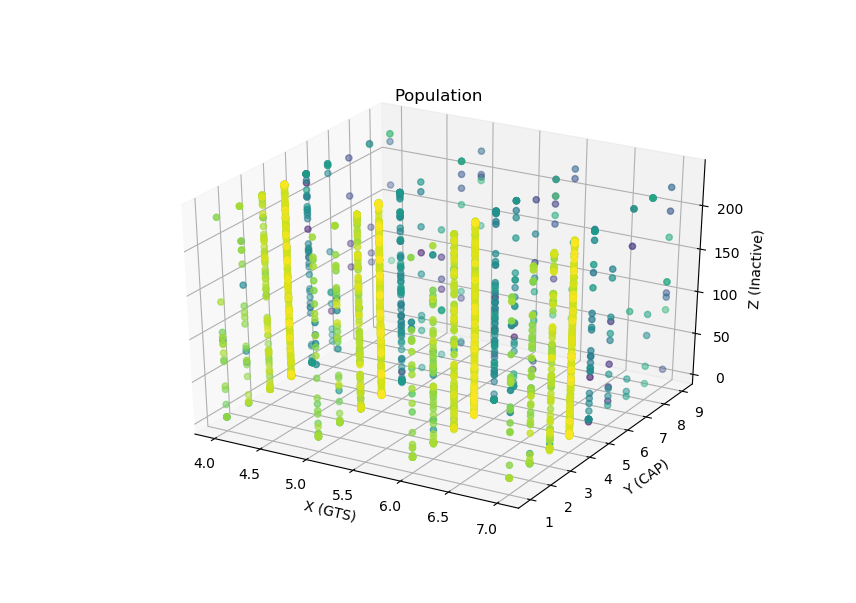
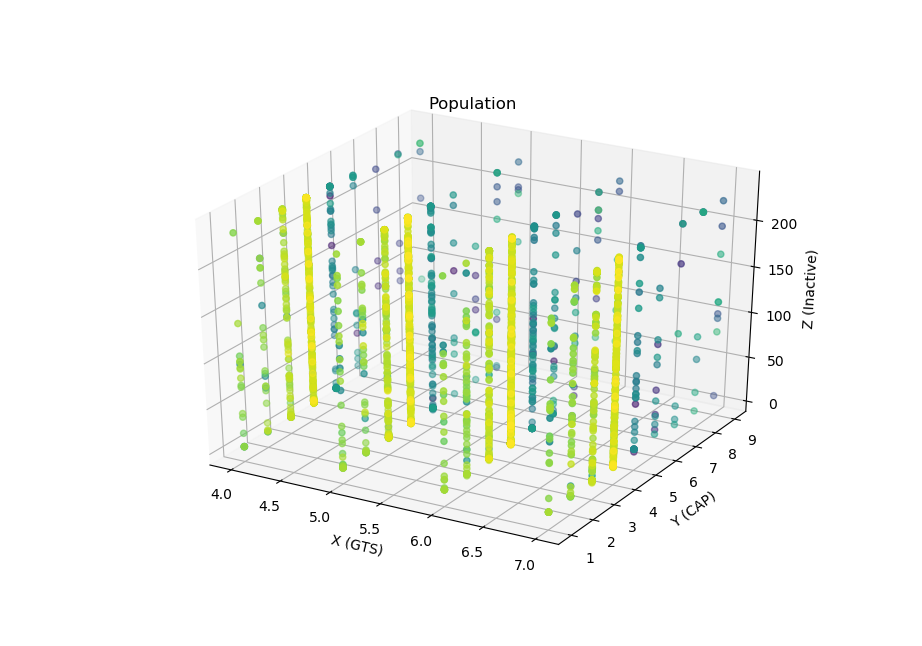
5000,10000

diff --git a/popplot.py b/popplot.py
@@ -9,7 +9,7 @@ import matplotlib.pyplot  as plt
 from mpl_toolkits import mplot3d
 import numpy as np
 
-df = pd.read_csv("report/10000/DE best .csv")
+df = pd.read_csv("report/5000/DE best .csv")
 df.sort_values(by=['energy'], inplace=True)
 
 print(df)
@@ -39,7 +39,7 @@ def convertvar(df):
     dfv.to_csv('report/DE best variables new1.csv')
 
 #convertvar(df)
-dfv2 =pd.read_csv('report/10000/DE best variables new1.csv')
+dfv2 =pd.read_csv('report/500/DE best variables new1.csv')
 
 
 
@@ -108,7 +108,7 @@ def myplotvar(df):
     e =np.array(df.energy)
     xy2 = np.ma.masked_where( (e < 6)&(e > 12000), e)
     ax.scatter(x, y, z, c=xy2, marker='o')#,s =(df.duration))
-    plt.title("Variables (sample size = superframesize)")
+    #plt.title("Variables (sample size = superframesize)")
 
     ax.set_xlabel('X (GTS)')
     ax.set_ylabel('Y (CAP)')
@@ -127,16 +127,16 @@ def myploted(df):
     ax.scatter(x, y, c=xy2, marker='o')
     plt.title("Pareto front")
 
-    ax.set_xlabel('<== Min Delay(s)')
+    ax.set_xlabel('<== Min Superframe Size(s)')
     ax.set_ylabel('Energy(MJ). Max ==>')
     plt.show()
     
 
-print(dfv2[-100:])
+print(dfv2[-70:])
 
 myplotpopulation(dfv2)
 myplott1t2(dfv2[-3000:])
 
 myplotobj(dfv2[-3000:])
 myplotvar(dfv2[-3000:])
-myploted(dfv2[-200:]) # pareto
+myploted(dfv2[-150:]) # pareto
